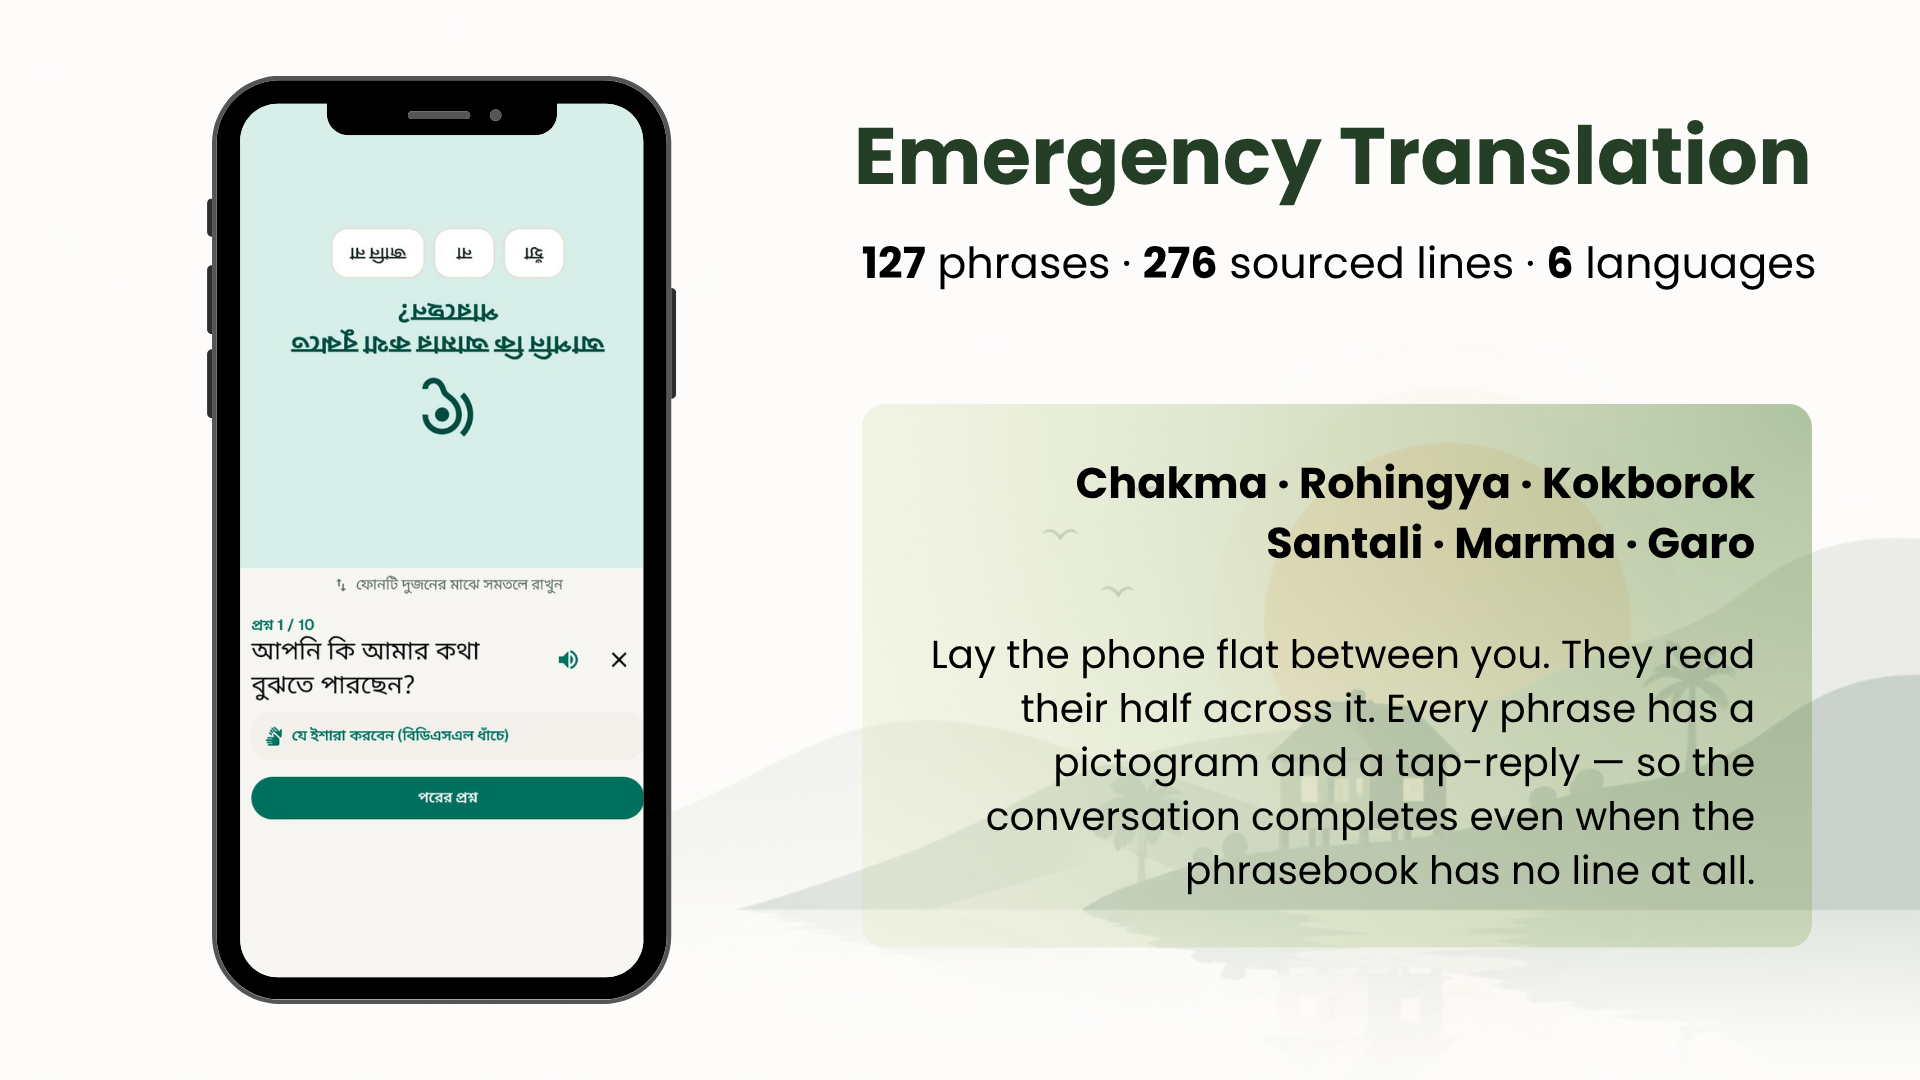
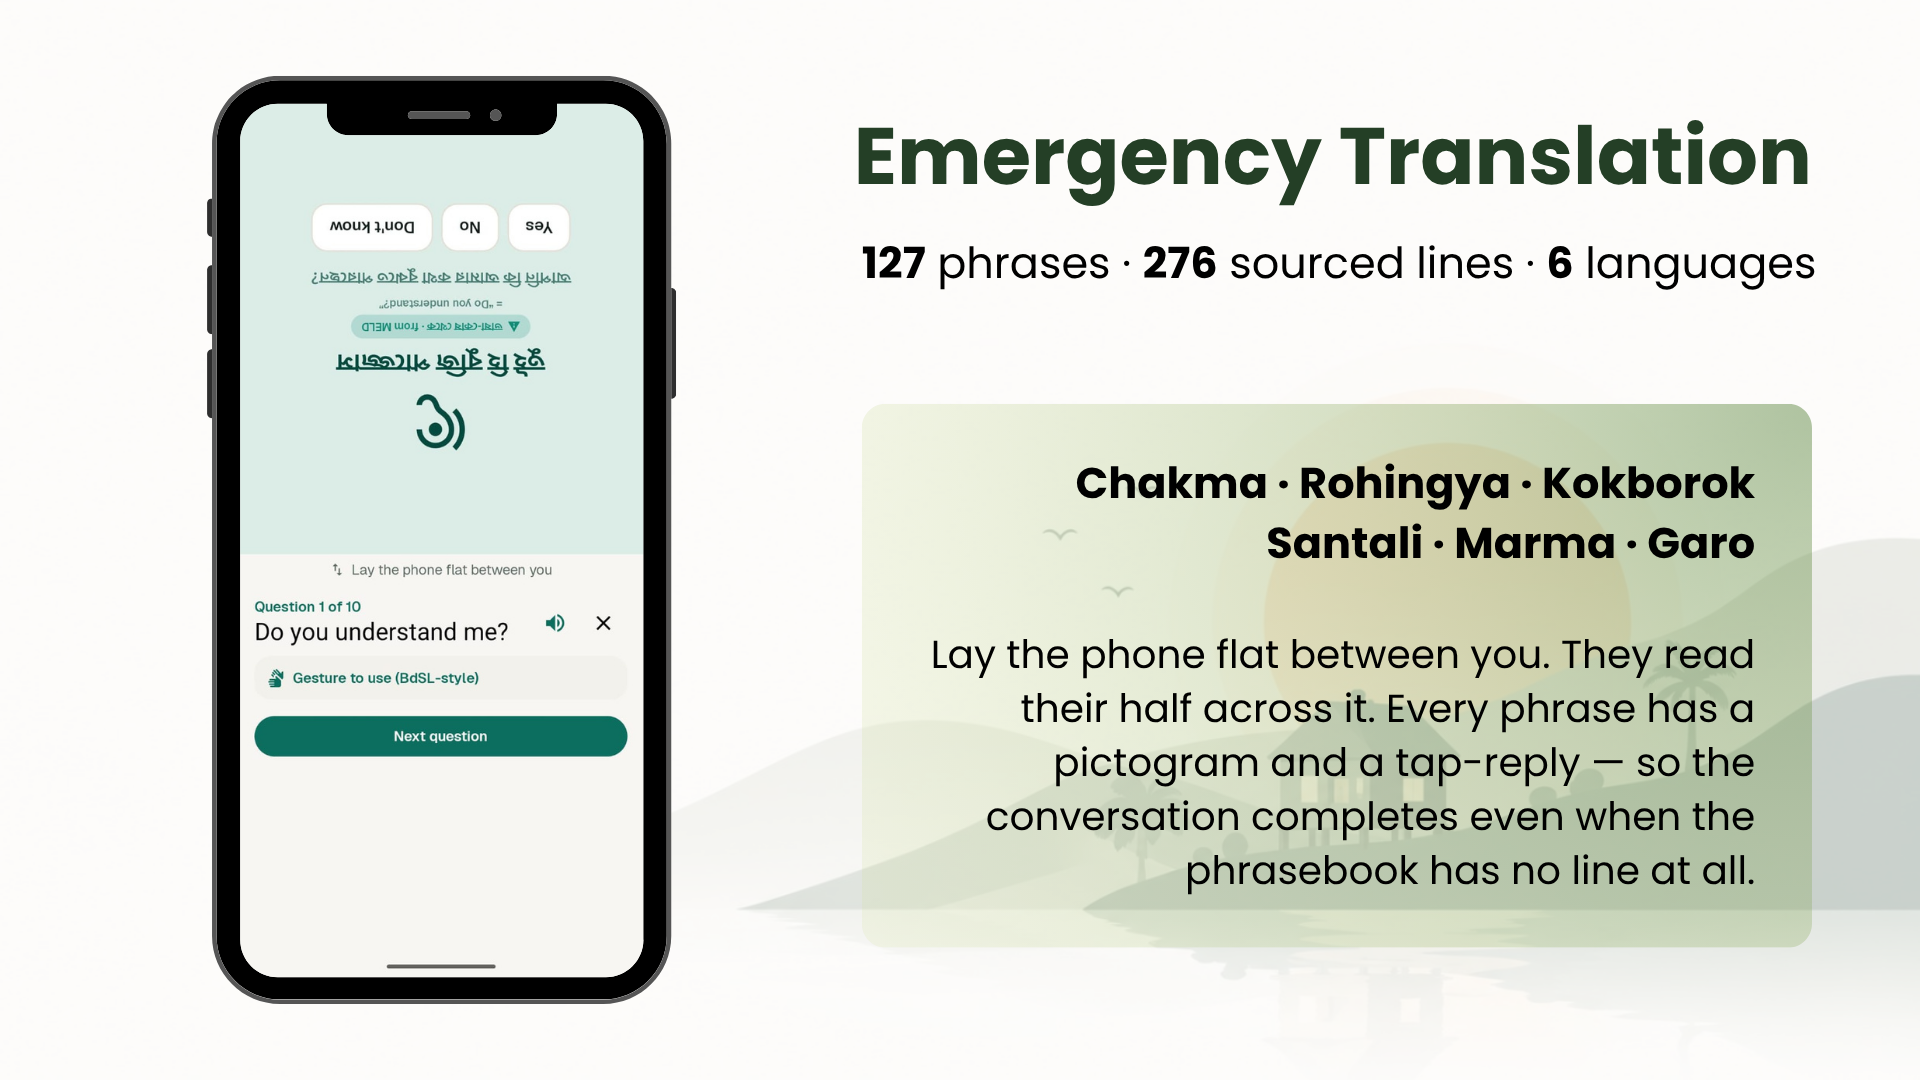
Update download link, add slide deck, refresh slides

Changed region(s): [[0.125, 0.4889, 0.3438, 0.7639], [0.1562, 0.1833, 0.3125, 0.4278], [0.2188, 0.8861, 0.25, 0.9167]]

diff --git a/README.md b/README.md
@@ -31,9 +31,11 @@
 
 **[youtu.be/9GsZ_ATN0ZQ](https://youtu.be/9GsZ_ATN0ZQ)** · 3 minutes · recorded in aeroplane mode
 
+**[Read the slide deck](https://drive.google.com/file/d/12RqTqRyUWP6mUbbsfdw6vtgqWOYw2hBl/view?usp=sharing)** (PDF)
+
 ### ⬇ Install it
 
-**[Download the APK](https://drive.google.com/file/d/1cA6WW_H4o2aPEyy_hucZZAHBhUw0P1G7/view?usp=sharing)** · 32 MB · Android 12+
+**[Download the APK](https://drive.google.com/file/d/1af8fL-YRcx70QRs9BCzoBBnNbIbghsjY/view?usp=drive_link)** · 32 MB · Android 12+
 
 No sign-in and no first-run download — everything except the optional AI works the moment it opens.
 
@@ -440,7 +442,7 @@ cd Nongor/nongor-android
 The APK lands in `app/build/outputs/apk/debug/app-debug.apk`.
 
 Prefer not to build? A signed release APK is
-**[available here](https://drive.google.com/file/d/1cA6WW_H4o2aPEyy_hucZZAHBhUw0P1G7/view?usp=sharing)**
+**[available here](https://drive.google.com/file/d/1af8fL-YRcx70QRs9BCzoBBnNbIbghsjY/view?usp=drive_link)**
 (32 MB), and a copy is committed as [`Nongor-v1.0.0.apk`](Nongor-v1.0.0.apk).
 
 No API keys, no `local.properties` secrets, no backend to stand up. Gradle resolves everything;
